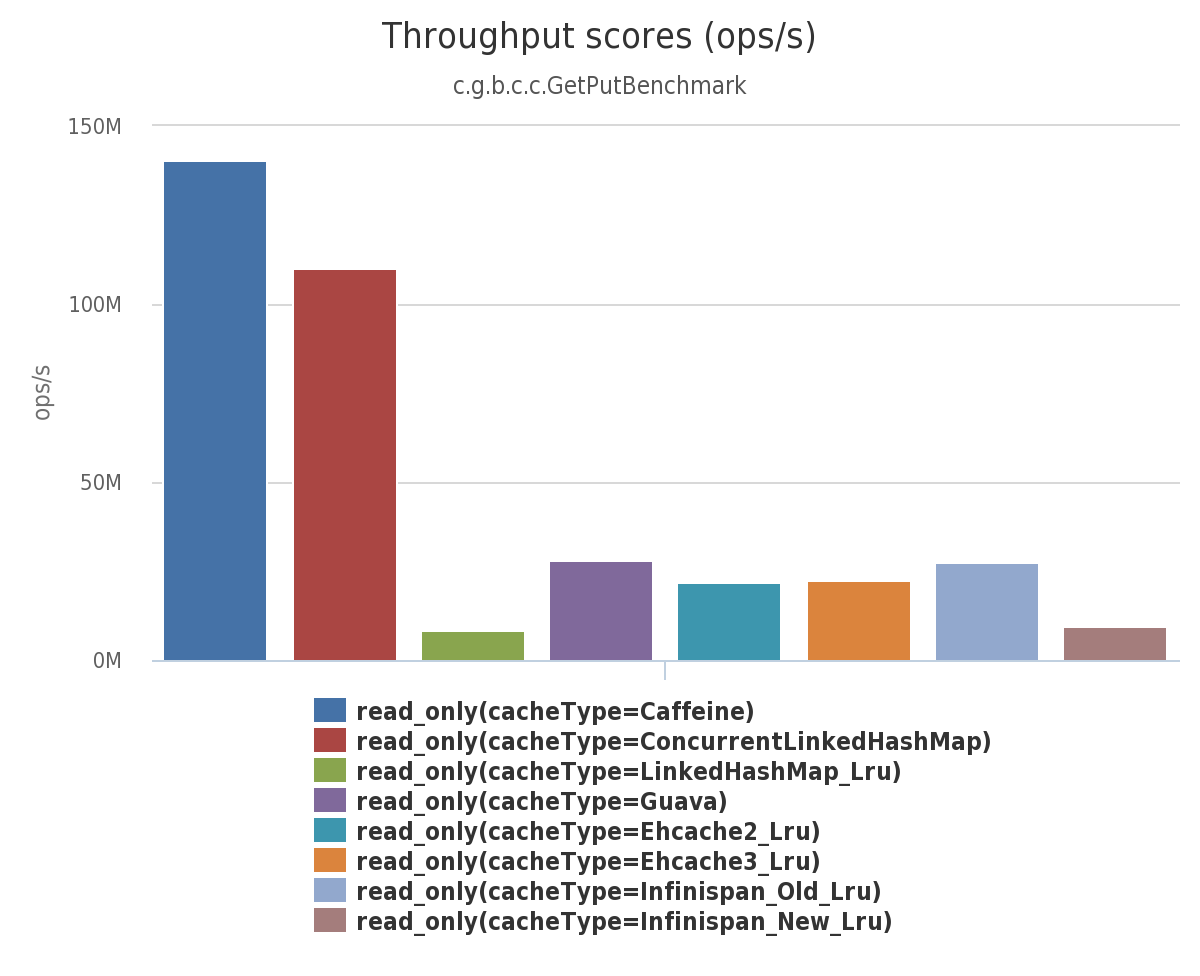
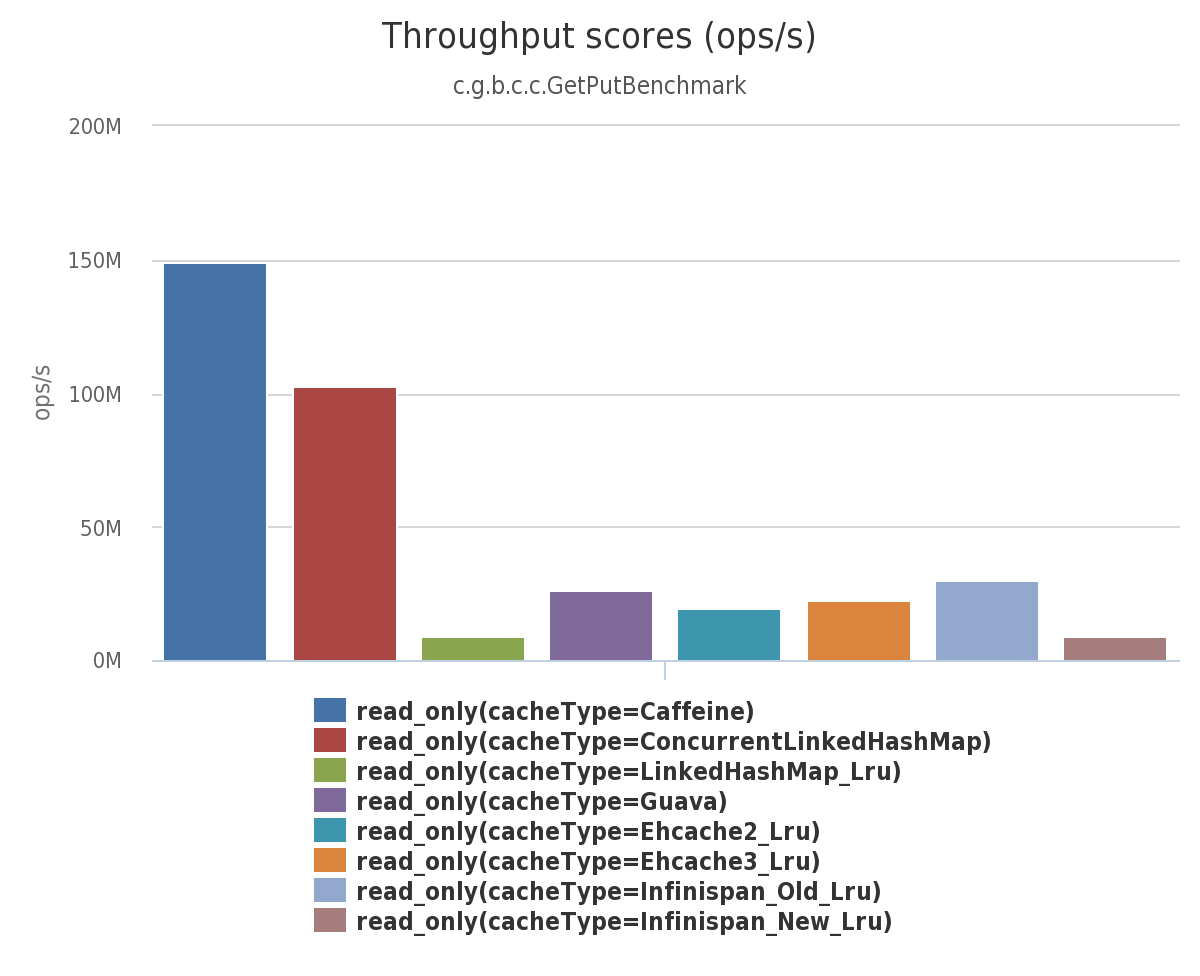
Add tear down phase to benchmark

diff --git a/caffeine/src/jmh/java/com/github/benmanes/caffeine/cache/impl/CaffeineCache.java b/caffeine/src/jmh/java/com/github/benmanes/caffeine/cache/impl/CaffeineCache.java
@@ -1,0 +1,53 @@
+/*
+ * Copyright 2015 Ben Manes. All Rights Reserved.
+ *
+ * Licensed under the Apache License, Version 2.0 (the "License");
+ * you may not use this file except in compliance with the License.
+ * You may obtain a copy of the License at
+ *
+ *     http://www.apache.org/licenses/LICENSE-2.0
+ *
+ * Unless required by applicable law or agreed to in writing, software
+ * distributed under the License is distributed on an "AS IS" BASIS,
+ * WITHOUT WARRANTIES OR CONDITIONS OF ANY KIND, either express or implied.
+ * See the License for the specific language governing permissions and
+ * limitations under the License.
+ */
+package com.github.benmanes.caffeine.cache.impl;
+
+import java.util.concurrent.Executors;
+
+import com.github.benmanes.caffeine.cache.BasicCache;
+import com.github.benmanes.caffeine.cache.Cache;
+import com.github.benmanes.caffeine.cache.Caffeine;
+import com.github.benmanes.caffeine.cache.tracing.Tracer;
+
+/**
+ * @author ***REDACTED-EMAIL*** (Ben Manes)
+ */
+public final class CaffeineCache<K, V> implements BasicCache<K, V> {
+  private final Cache<K, V> cache;
+
+  public CaffeineCache(int maximumSize) {
+    System.setProperty(Tracer.TRACING_ENABLED, "false");
+    cache = Caffeine.newBuilder()
+        .executor(Executors.newWorkStealingPool(1))
+        .maximumSize(maximumSize)
+        .build();
+  }
+
+  @Override
+  public V get(K key) {
+    return cache.getIfPresent(key);
+  }
+
+  @Override
+  public void put(K key, V value) {
+    cache.put(key, value);
+  }
+
+  @Override
+  public void cleanUp() {
+    cache.cleanUp();
+  }
+}

diff --git a/caffeine/src/jmh/java/com/github/benmanes/caffeine/cache/impl/GuavaCache.java b/caffeine/src/jmh/java/com/github/benmanes/caffeine/cache/impl/GuavaCache.java
@@ -1,0 +1,51 @@
+/*
+ * Copyright 2015 Ben Manes. All Rights Reserved.
+ *
+ * Licensed under the Apache License, Version 2.0 (the "License");
+ * you may not use this file except in compliance with the License.
+ * You may obtain a copy of the License at
+ *
+ *     http://www.apache.org/licenses/LICENSE-2.0
+ *
+ * Unless required by applicable law or agreed to in writing, software
+ * distributed under the License is distributed on an "AS IS" BASIS,
+ * WITHOUT WARRANTIES OR CONDITIONS OF ANY KIND, either express or implied.
+ * See the License for the specific language governing permissions and
+ * limitations under the License.
+ */
+package com.github.benmanes.caffeine.cache.impl;
+
+import static com.github.benmanes.caffeine.cache.CacheType.CONCURRENCY_LEVEL;
+
+import com.github.benmanes.caffeine.cache.BasicCache;
+import com.google.common.cache.Cache;
+import com.google.common.cache.CacheBuilder;
+
+/**
+ * @author ***REDACTED-EMAIL*** (Ben Manes)
+ */
+public final class GuavaCache<K, V> implements BasicCache<K, V> {
+  private final Cache<K, V> cache;
+
+  public GuavaCache(int maximumSize) {
+    cache = CacheBuilder.newBuilder()
+        .concurrencyLevel(CONCURRENCY_LEVEL)
+        .maximumSize(maximumSize)
+        .build();
+  }
+
+  @Override
+  public V get(K key) {
+    return cache.getIfPresent(key);
+  }
+
+  @Override
+  public void put(K key, V value) {
+    cache.put(key, value);
+  }
+
+  @Override
+  public void cleanUp() {
+    cache.cleanUp();
+  }
+}

diff --git a/caffeine/src/jmh/java/com/github/benmanes/caffeine/cache/CacheType.java b/caffeine/src/jmh/java/com/github/benmanes/caffeine/cache/CacheType.java
@@ -24,13 +24,13 @@ import org.infinispan.commons.util.concurrent.jdk8backported.BoundedEquivalentCo
 import org.infinispan.commons.util.concurrent.jdk8backported.BoundedEquivalentConcurrentHashMapV8.Eviction;
 import org.infinispan.util.concurrent.BoundedConcurrentHashMap;
 
+import com.github.benmanes.caffeine.cache.impl.CaffeineCache;
 import com.github.benmanes.caffeine.cache.impl.ConcurrentHashMapV7;
 import com.github.benmanes.caffeine.cache.impl.ConcurrentMapCache;
 import com.github.benmanes.caffeine.cache.impl.Ehcache2;
 import com.github.benmanes.caffeine.cache.impl.Ehcache3;
+import com.github.benmanes.caffeine.cache.impl.GuavaCache;
 import com.github.benmanes.caffeine.cache.impl.LinkedHashMapCache;
-import com.github.benmanes.caffeine.cache.tracing.Tracer;
-import com.google.common.cache.CacheBuilder;
 import com.googlecode.concurrentlinkedhashmap.ConcurrentLinkedHashMap;
 
 import net.sf.ehcache.store.MemoryStoreEvictionPolicy;
@@ -41,12 +41,7 @@ import net.sf.ehcache.store.MemoryStoreEvictionPolicy;
 public enum CacheType {
   Caffeine {
     @Override public <K, V> BasicCache<K, V> create(int maximumSize) {
-      System.setProperty(Tracer.TRACING_ENABLED, "false");
-      return new ConcurrentMapCache<>(
-          com.github.benmanes.caffeine.cache.Caffeine.newBuilder()
-              .maximumSize(maximumSize)
-              .<K, V>build()
-              .asMap());
+      return new CaffeineCache<>(maximumSize);
     }
   },
   ConcurrentHashMapV7 { // unbounded, see OpenJDK/7u40-b43
@@ -70,12 +65,7 @@ public enum CacheType {
   },
   Guava {
     @Override public <K, V> BasicCache<K, V> create(int maximumSize) {
-      return new ConcurrentMapCache<>(
-          CacheBuilder.newBuilder()
-              .concurrencyLevel(CONCURRENCY_LEVEL)
-              .maximumSize(maximumSize)
-              .<K, V>build()
-              .asMap());
+      return new GuavaCache<>(maximumSize);
     }
   },
   Infinispan_Old_Lru {
@@ -116,7 +106,7 @@ public enum CacheType {
   };
 
   /** The number of hash table segments. */
-  static final int CONCURRENCY_LEVEL = 64;
+  public static final int CONCURRENCY_LEVEL = 64;
 
   /**
    * Creates the cache with the maximum size. Note that some implementations may evict prior to

diff --git a/caffeine/src/jmh/java/com/github/benmanes/caffeine/cache/GetPutBenchmark.java b/caffeine/src/jmh/java/com/github/benmanes/caffeine/cache/GetPutBenchmark.java
@@ -20,10 +20,12 @@ import java.util.Random;
 import org.openjdk.jmh.annotations.Benchmark;
 import org.openjdk.jmh.annotations.Group;
 import org.openjdk.jmh.annotations.GroupThreads;
+import org.openjdk.jmh.annotations.Level;
 import org.openjdk.jmh.annotations.Param;
 import org.openjdk.jmh.annotations.Scope;
 import org.openjdk.jmh.annotations.Setup;
 import org.openjdk.jmh.annotations.State;
+import org.openjdk.jmh.annotations.TearDown;
 
 import com.github.benmanes.caffeine.cache.simulator.generator.IntegerGenerator;
 import com.github.benmanes.caffeine.cache.simulator.generator.ScrambledZipfianGenerator;
@@ -35,7 +37,7 @@ import com.github.benmanes.caffeine.cache.simulator.generator.ScrambledZipfianGe
 public class GetPutBenchmark {
   private static final int SIZE = (2 << 14);
   private static final int MASK = SIZE - 1;
-  private static final int ITEMS = SIZE / 4;
+  private static final int ITEMS = SIZE / 3;
 
   @Param({
     "LinkedHashMap_Lru",
@@ -67,6 +69,11 @@ public class GetPutBenchmark {
       ints[i] = generator.nextInt();
       cache.put(ints[i], Boolean.TRUE);
     }
+  }
+
+  @TearDown(Level.Iteration)
+  public void tearDown() {
+    cache.cleanUp();
   }
 
   @Benchmark @Group("read_only") @GroupThreads(8)

diff --git a/caffeine/src/main/java/com/github/benmanes/caffeine/cache/BoundedLocalCache.java b/caffeine/src/main/java/com/github/benmanes/caffeine/cache/BoundedLocalCache.java
@@ -137,7 +137,9 @@ abstract class BoundedLocalCache<K, V> extends BLCHeader.DrainStatusRef<K, V>
     weigher = builder.getWeigher(isAsync);
     id = tracer().register(builder.name());
     data = new ConcurrentHashMap<>(builder.getInitialCapacity());
-    evictionLock = builder.hasExecutor() ? new ReentrantLock() : new NonReentrantLock();
+    evictionLock = (builder.getExecutor() instanceof ForkJoinPool)
+        ? new NonReentrantLock()
+        : new ReentrantLock();
     nodeFactory = NodeFactory.getFactory(builder.isStrongKeys(), builder.isWeakKeys(),
         builder.isStrongValues(), builder.isWeakValues(), builder.isSoftValues(),
         builder.expiresAfterAccess(), builder.expiresAfterWrite(), builder.refreshes(),

diff --git a/caffeine/src/main/java/com/github/benmanes/caffeine/cache/Caffeine.java b/caffeine/src/main/java/com/github/benmanes/caffeine/cache/Caffeine.java
@@ -236,10 +236,6 @@ public final class Caffeine<K, V> {
     return this;
   }
 
-  boolean hasExecutor() {
-    return getExecutor() != ForkJoinPool.commonPool();
-  }
-
   @Nonnull
   Executor getExecutor() {
     return (executor == null) ? ForkJoinPool.commonPool() : executor;

diff --git a/caffeine/src/jmh/java/com/github/benmanes/caffeine/cache/BasicCache.java b/caffeine/src/jmh/java/com/github/benmanes/caffeine/cache/BasicCache.java
@@ -33,4 +33,7 @@ public interface BasicCache<K, V> {
 
   /** Stores the value into the cache, replacing an existing mapping if present. */
   void put(@Nonnull K key, @Nonnull V value);
+
+  /** Performs any pending maintenance operations needed by the cache. */
+  default void cleanUp() {}
 }